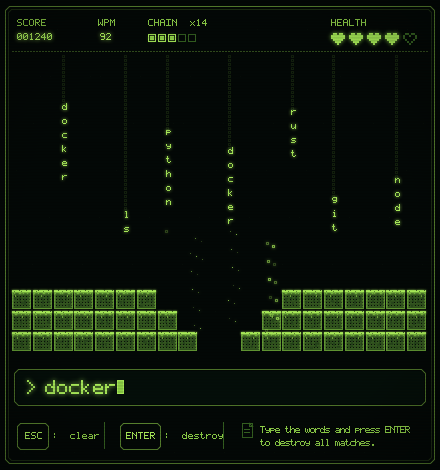
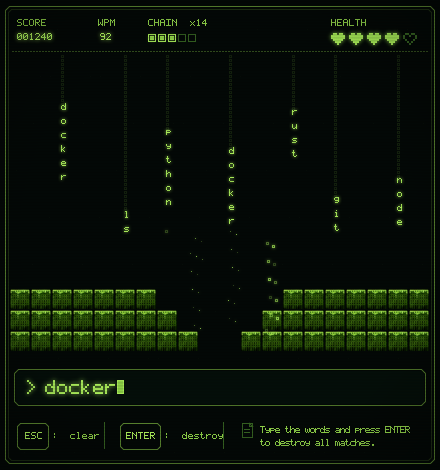
fix: refine Typewall visuals and collisions

diff --git a/games/meanwaile-typewall/meanwaile-typewall.js b/games/meanwaile-typewall/meanwaile-typewall.js
@@ -10,22 +10,23 @@ import {
 const LOGICAL_WIDTH = 440;
 const LOGICAL_HEIGHT = 470;
 const HEART_COUNT = 5;
+const CHAIN_SEGMENT_SIZE = 7;
+const CHAIN_SEGMENT_STEP = 10;
 const GREEN = '#8dce47';
 const GREEN_BRIGHT = '#a7e858';
 const GREEN_DIM = '#345f20';
 const BACKGROUND = '#030806';
 
-const BLOCK_TOP_PATTERNS = [
-  ['1111111011111101111', '1101111110111111111', '1111001111111011110', '0010000110010001000'],
-  ['1110111111101111111', '1111110111111101111', '1011111110011111101', '0001100001000100100'],
-  ['1111101111111110111', '1110111111011111111', '1111110011111100111', '0100010000110001000'],
-  ['1111111110111111101', '1101111111110111111', '1110011111111001110', '0011000100001100010'],
-  ['1111011111110111111', '1111111101111111011', '1001111111100111111', '0100001010000011000'],
-];
-
 const canvas = document.getElementById('game');
 const context = canvas.getContext('2d', { alpha: false });
 context.imageSmoothingEnabled = false;
+const wallBlockImage = new Image();
+let wallBlockReady = false;
+wallBlockImage.addEventListener('load', () => {
+  wallBlockReady = true;
+  render();
+});
+wallBlockImage.src = 'assets/wall-block.png';
 
 const GLYPHS = {
   A: ['01110','10001','10001','11111','10001','10001','10001'],
@@ -187,22 +188,43 @@ function drawHud() {
   drawPixelText(`CHAIN  x${engine.chainMultiplier}`, 148, 19, { color: GREEN });
   const segmentX = 148;
   for (let index = 0; index < CHAIN_SEGMENTS; index += 1) {
-    const x = segmentX + index * 10;
-    context.strokeStyle = index < engine.chainProgress ? GREEN_BRIGHT : GREEN_DIM;
-    context.strokeRect(x + 0.5, 34.5, 7, 7);
-    if (index < engine.chainProgress) {
-      context.fillStyle = GREEN;
-      context.shadowColor = GREEN;
-      context.shadowBlur = 4;
-      context.fillRect(x + 2, 36, 4, 4);
-      context.shadowBlur = 0;
-    }
+    const x = segmentX + index * CHAIN_SEGMENT_STEP;
+    drawChainSegment(x, 35, index < engine.chainProgress);
   }
 
   drawPixelText('HEALTH', 331, 19, { color: GREEN });
   for (let index = 0; index < HEART_COUNT; index += 1) {
     drawHeart(331 + index * 18, 33, index < engine.health);
   }
+}
+
+function drawChainSegment(x, y, filled) {
+  context.save();
+  if (filled) {
+    context.shadowColor = GREEN;
+    context.shadowBlur = 3;
+    context.fillStyle = '#659b34';
+    context.fillRect(x, y, CHAIN_SEGMENT_SIZE, CHAIN_SEGMENT_SIZE);
+
+    // The reference blocks have a bright CRT-facing edge and a darker lower
+    // edge instead of a hollow centre.
+    context.shadowBlur = 0;
+    context.fillStyle = GREEN_BRIGHT;
+    context.fillRect(x, y, CHAIN_SEGMENT_SIZE, 1);
+    context.fillRect(x, y + 1, 1, CHAIN_SEGMENT_SIZE - 1);
+    context.fillStyle = '#426c25';
+    context.fillRect(x + 1, y + CHAIN_SEGMENT_SIZE - 1, CHAIN_SEGMENT_SIZE - 1, 1);
+    context.fillRect(x + CHAIN_SEGMENT_SIZE - 1, y + 1, 1, CHAIN_SEGMENT_SIZE - 1);
+  } else {
+    context.strokeStyle = 'rgba(77, 120, 39, 0.65)';
+    context.strokeRect(
+      x + 0.5,
+      y + 0.5,
+      CHAIN_SEGMENT_SIZE - 1,
+      CHAIN_SEGMENT_SIZE - 1,
+    );
+  }
+  context.restore();
 }
 
 function formatScore(score) {
@@ -263,74 +285,21 @@ function drawWords() {
 }
 
 function drawWall() {
-  const { boardLeft, columnWidth, wallY, wallRowHeight } = DEFAULT_CONFIG;
+  const { blockSize, boardLeft, columnWidth, wallY, wallRowHeight } = DEFAULT_CONFIG;
   for (let row = 0; row < WALL_ROWS; row += 1) {
     for (let column = 0; column < DEFAULT_CONFIG.columns; column += 1) {
       if (!engine.blocks[row][column]) continue;
-      drawWallBlock(
-        Math.round(boardLeft + column * columnWidth),
-        wallY + row * wallRowHeight,
-        Math.floor(columnWidth) - 1,
-        wallRowHeight - 2,
-        column,
-        row,
-      );
-    }
-  }
-}
-
-function drawWallBlock(x, y, width, height, column, row) {
-  const seed = column * 17 + row * 31;
-
-  context.fillStyle = '#33561f';
-  context.fillRect(x, y + 2, width, height - 2);
-  context.strokeStyle = '#649b35';
-  context.strokeRect(x + 0.5, y + 2.5, width - 1, height - 3);
-
-  context.fillStyle = '#27471b';
-  for (let stain = 0; stain < 4; stain += 1) {
-    const stainX = x + 2 + ((seed + stain * 5) % (width - 4));
-    const stainY = y + 5 + ((seed + stain * 7) % 5);
-    context.fillRect(stainX, stainY, 2, Math.min(height - (stainY - y) - 1, 4 + (stain % 3)));
-  }
-
-  const topPattern = BLOCK_TOP_PATTERNS[seed % BLOCK_TOP_PATTERNS.length];
-  context.save();
-  context.shadowColor = GREEN_BRIGHT;
-  context.shadowBlur = 2;
-  for (let patternY = 0; patternY < topPattern.length; patternY += 1) {
-    context.fillStyle = patternY < 2 ? GREEN_BRIGHT : '#78b73d';
-    for (let patternX = 0; patternX < width; patternX += 1) {
-      if (topPattern[patternY][patternX] === '1') {
-        context.fillRect(x + patternX, y + patternY, 1, 1);
+      const x = Math.round(boardLeft + column * columnWidth);
+      const y = wallY + row * wallRowHeight;
+      if (wallBlockReady) {
+        context.drawImage(wallBlockImage, x, y, blockSize, blockSize);
+      }
+      else {
+        context.fillStyle = '#31531e';
+        context.fillRect(x, y, blockSize, blockSize);
       }
     }
   }
-  context.restore();
-
-  context.fillStyle = '#091108';
-  for (let holeRow = 0; holeRow < 4; holeRow += 1) {
-    for (let holeColumn = 0; holeColumn < 6; holeColumn += 1) {
-      const holeX = x + 2 + holeColumn * 3;
-      const holeY = y + 6 + holeRow * 3;
-      if (holeX < x + width - 1 && holeY < y + height - 1) {
-        context.fillRect(holeX, holeY, 1, 1);
-      }
-    }
-  }
-
-  context.fillStyle = '#29491b';
-  for (let patch = 0; patch < 3; patch += 1) {
-    const patchX = x + 2 + ((seed * 2 + patch * 7) % (width - 5));
-    const patchY = y + 7 + ((seed + patch * 5) % Math.max(1, height - 10));
-    context.fillRect(patchX, patchY, 2 + (patch % 2), 2);
-  }
-  context.fillStyle = '#73aa3b';
-  context.fillRect(x + 3 + (seed % Math.max(1, width - 7)), y + 5, 1, 2);
-
-  context.fillStyle = 'rgba(157, 218, 83, 0.24)';
-  context.fillRect(x + 1, y + 4, 1, height - 5);
-  context.fillRect(x + width - 2, y + 5, 1, height - 7);
 }
 
 function drawParticles() {
@@ -439,11 +408,13 @@ function render(now = displayNow) {
   drawFrame();
   drawHud();
   drawWords();
+  drawInputAndControls();
+  drawCrtTexture();
+  // The block sprite is sampled from the CRT reference itself, so it must be
+  // copied after the synthetic texture to preserve its pixels exactly.
   drawWall();
   drawParticles();
-  drawInputAndControls();
   if (engine.gameOver) drawGameOver();
-  drawCrtTexture();
 }
 
 function setUpPreviewScene() {
@@ -487,7 +458,7 @@ function setUpPreviewScene() {
 function loop(now) {
   if (!hostActive) return;
   if (lastFrameAt === null) lastFrameAt = now;
-  engine.update(now - lastFrameAt);
+  engine.update(now - lastFrameAt, now);
   lastFrameAt = now;
   render(now);
   frameId = requestAnimationFrame(loop);

diff --git a/games/meanwaile-typewall/logic.js b/games/meanwaile-typewall/logic.js
@@ -7,10 +7,11 @@ export const WPM_WINDOW_MS = 60_000;
 
 export const DEFAULT_CONFIG = Object.freeze({
   columns: 20,
-  wallY: 290,
+  wallY: 289,
   wallRowHeight: 21,
-  boardLeft: 12,
-  columnWidth: 20.8,
+  blockSize: 20,
+  boardLeft: 10,
+  columnWidth: 21,
   spawnTopY: 61,
   characterStep: 14,
   initialFallSpeed: 14,
@@ -81,6 +82,10 @@ export class TypewallEngine {
     return this.config.wallY;
   }
 
+  get groundY() {
+    return this.wallY + WALL_ROWS * this.config.wallRowHeight;
+  }
+
   reset() {
     this.activeWords = [];
     this.destroyingWords = [];
@@ -92,6 +97,7 @@ export class TypewallEngine {
     this.chainProgress = 0;
     this.health = MAX_HEALTH;
     this.gameOver = false;
+    this.gameOverAtMs = null;
     this.elapsedMs = 0;
     this.timeSinceSpawnMs = 0;
     this.destroyedWordTimes = [];
@@ -110,7 +116,7 @@ export class TypewallEngine {
   }
 
   getWpm(nowMs = this.elapsedMs) {
-    return getWpm(this.destroyedWordTimes, nowMs);
+    return getWpm(this.destroyedWordTimes, this.gameOverAtMs ?? nowMs);
   }
 
   handleKey(key, nowMs = this.elapsedMs) {
@@ -165,7 +171,10 @@ export class TypewallEngine {
     this.input = '';
   }
 
-  update(dtMs) {
+  update(
+    dtMs,
+    nowMs = this.elapsedMs + Math.max(0, Math.min(dtMs, this.config.maxDeltaMs)),
+  ) {
     const dt = Math.max(0, Math.min(dtMs, this.config.maxDeltaMs));
     if (dt === 0) return;
 
@@ -182,11 +191,9 @@ export class TypewallEngine {
     const survivors = [];
     for (const word of this.activeWords) {
       word.y += distance;
-      if (word.y >= this.wallY) {
-        this.resolveWallCollision(word);
+      if (this.resolveWallCollision(word, nowMs)) {
         if (this.gameOver) break;
-      }
-      else survivors.push(word);
+      } else survivors.push(word);
     }
     this.activeWords = survivors;
 
@@ -199,16 +206,25 @@ export class TypewallEngine {
     }
   }
 
-  resolveWallCollision(word) {
+  resolveWallCollision(word, nowMs = this.elapsedMs) {
     const rowIndex = this.blocks.findIndex((row) => row[word.column]);
+    const collisionY = rowIndex >= 0
+      ? this.wallY + rowIndex * this.config.wallRowHeight
+      : this.groundY;
+    if (word.y < collisionY) return false;
+
     if (rowIndex >= 0) {
       this.blocks[rowIndex][word.column] = false;
       this.createBlockParticles(word.column, rowIndex);
-      return;
+      return true;
     }
     this.health = Math.max(0, this.health - 1);
     this.createBreachParticles(word.column);
-    if (this.health === 0) this.gameOver = true;
+    if (this.health === 0) {
+      this.gameOver = true;
+      this.gameOverAtMs = nowMs;
+    }
+    return true;
   }
 
   spawnWord() {
@@ -281,7 +297,7 @@ export class TypewallEngine {
   createBreachParticles(column) {
     const x = this.config.boardLeft + column * this.config.columnWidth + this.config.columnWidth / 2;
     for (let index = 0; index < 9; index += 1) {
-      this.particle('breach', x, this.wallY + 35, (this.rng() - 0.5) * 18, -12 - this.rng() * 18, 500, 2);
+      this.particle('breach', x, this.groundY, (this.rng() - 0.5) * 18, -12 - this.rng() * 18, 500, 2);
     }
   }
 
